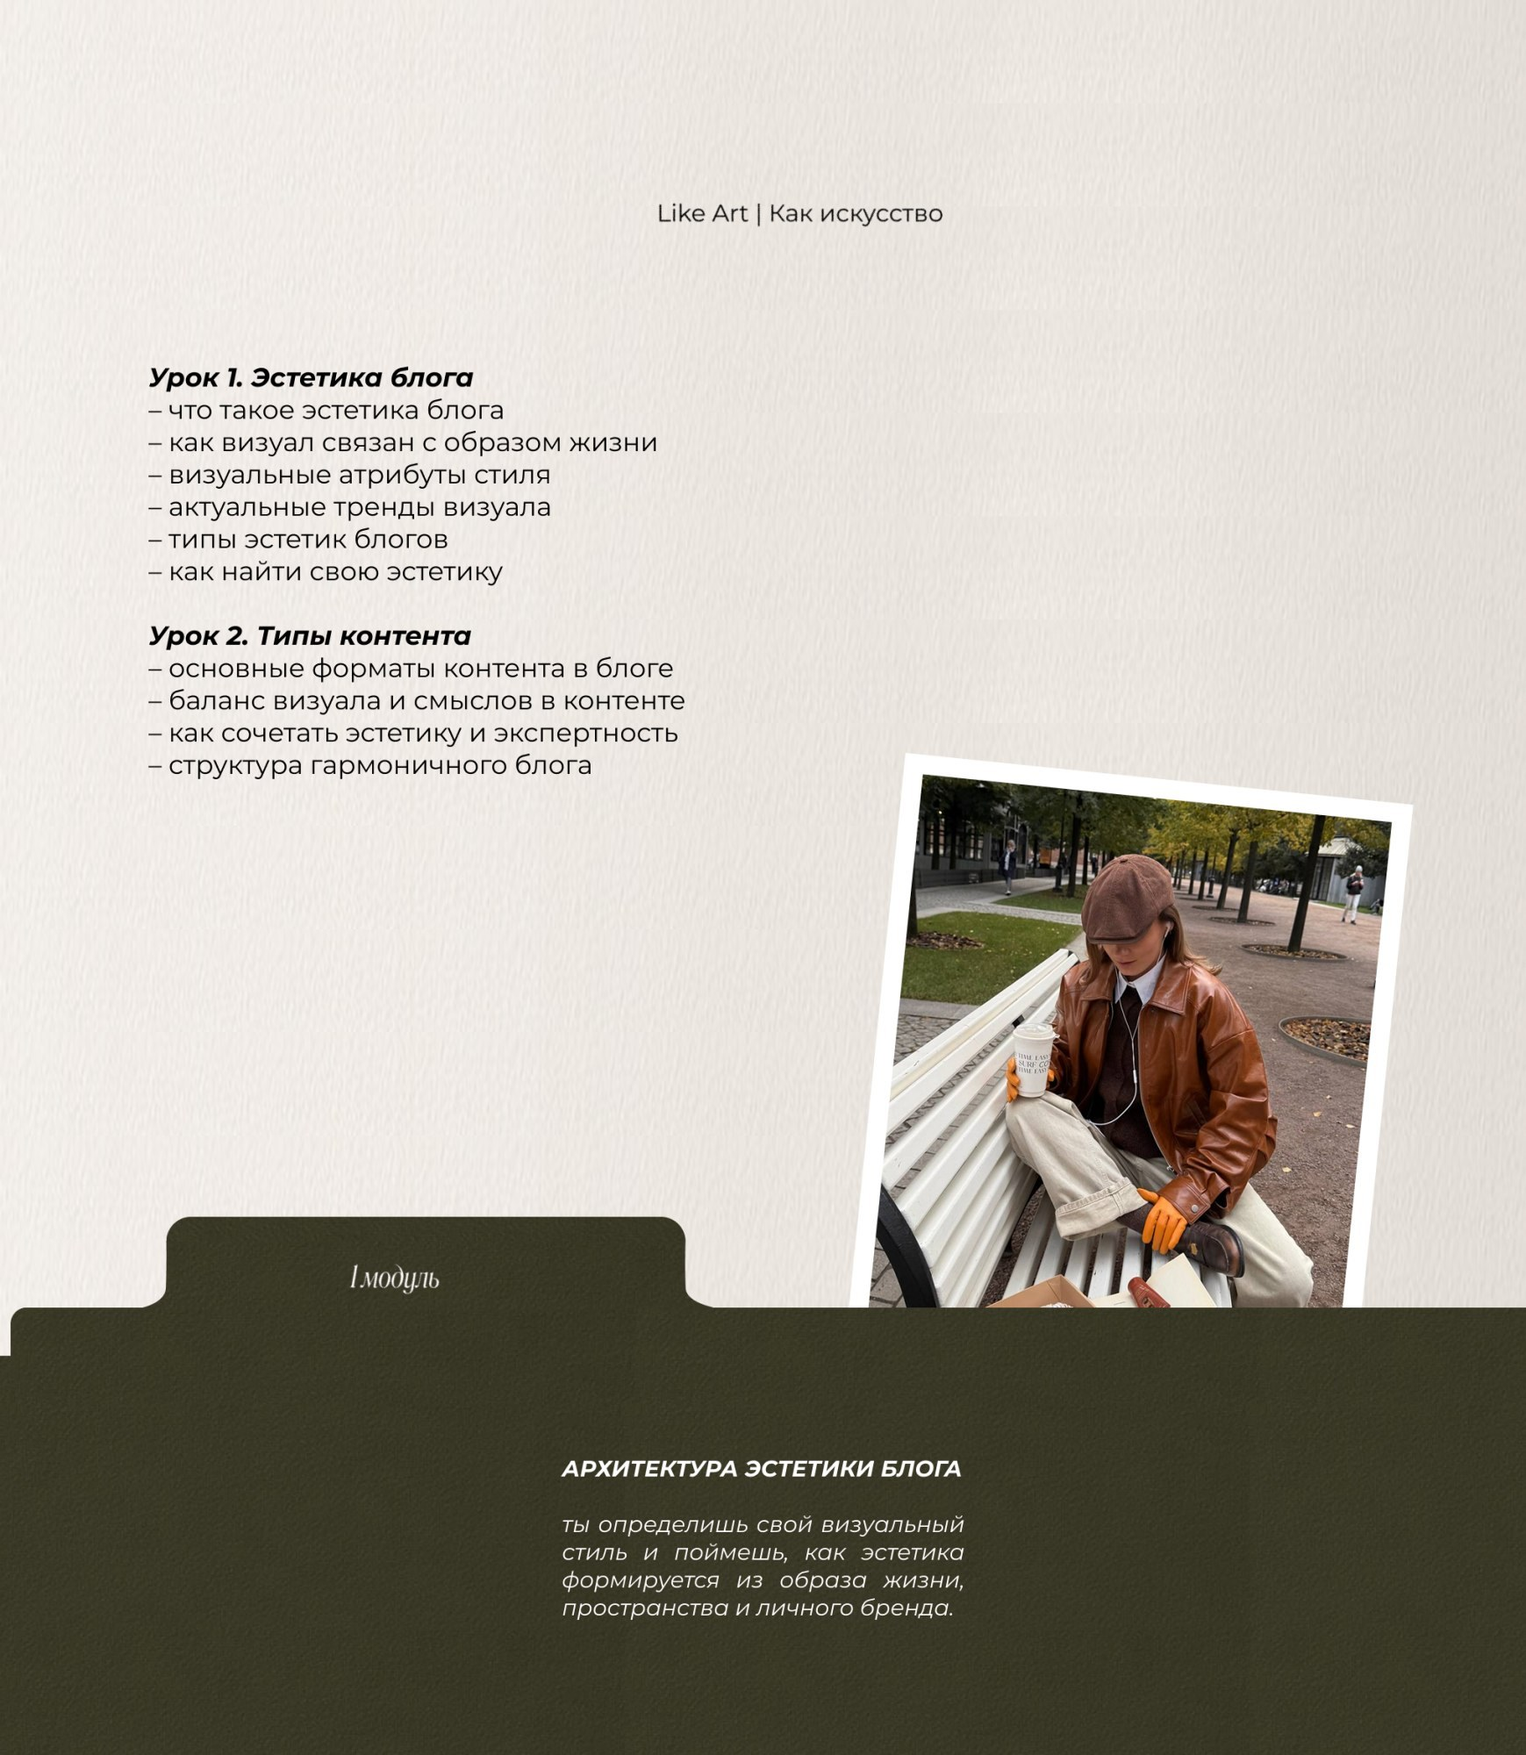
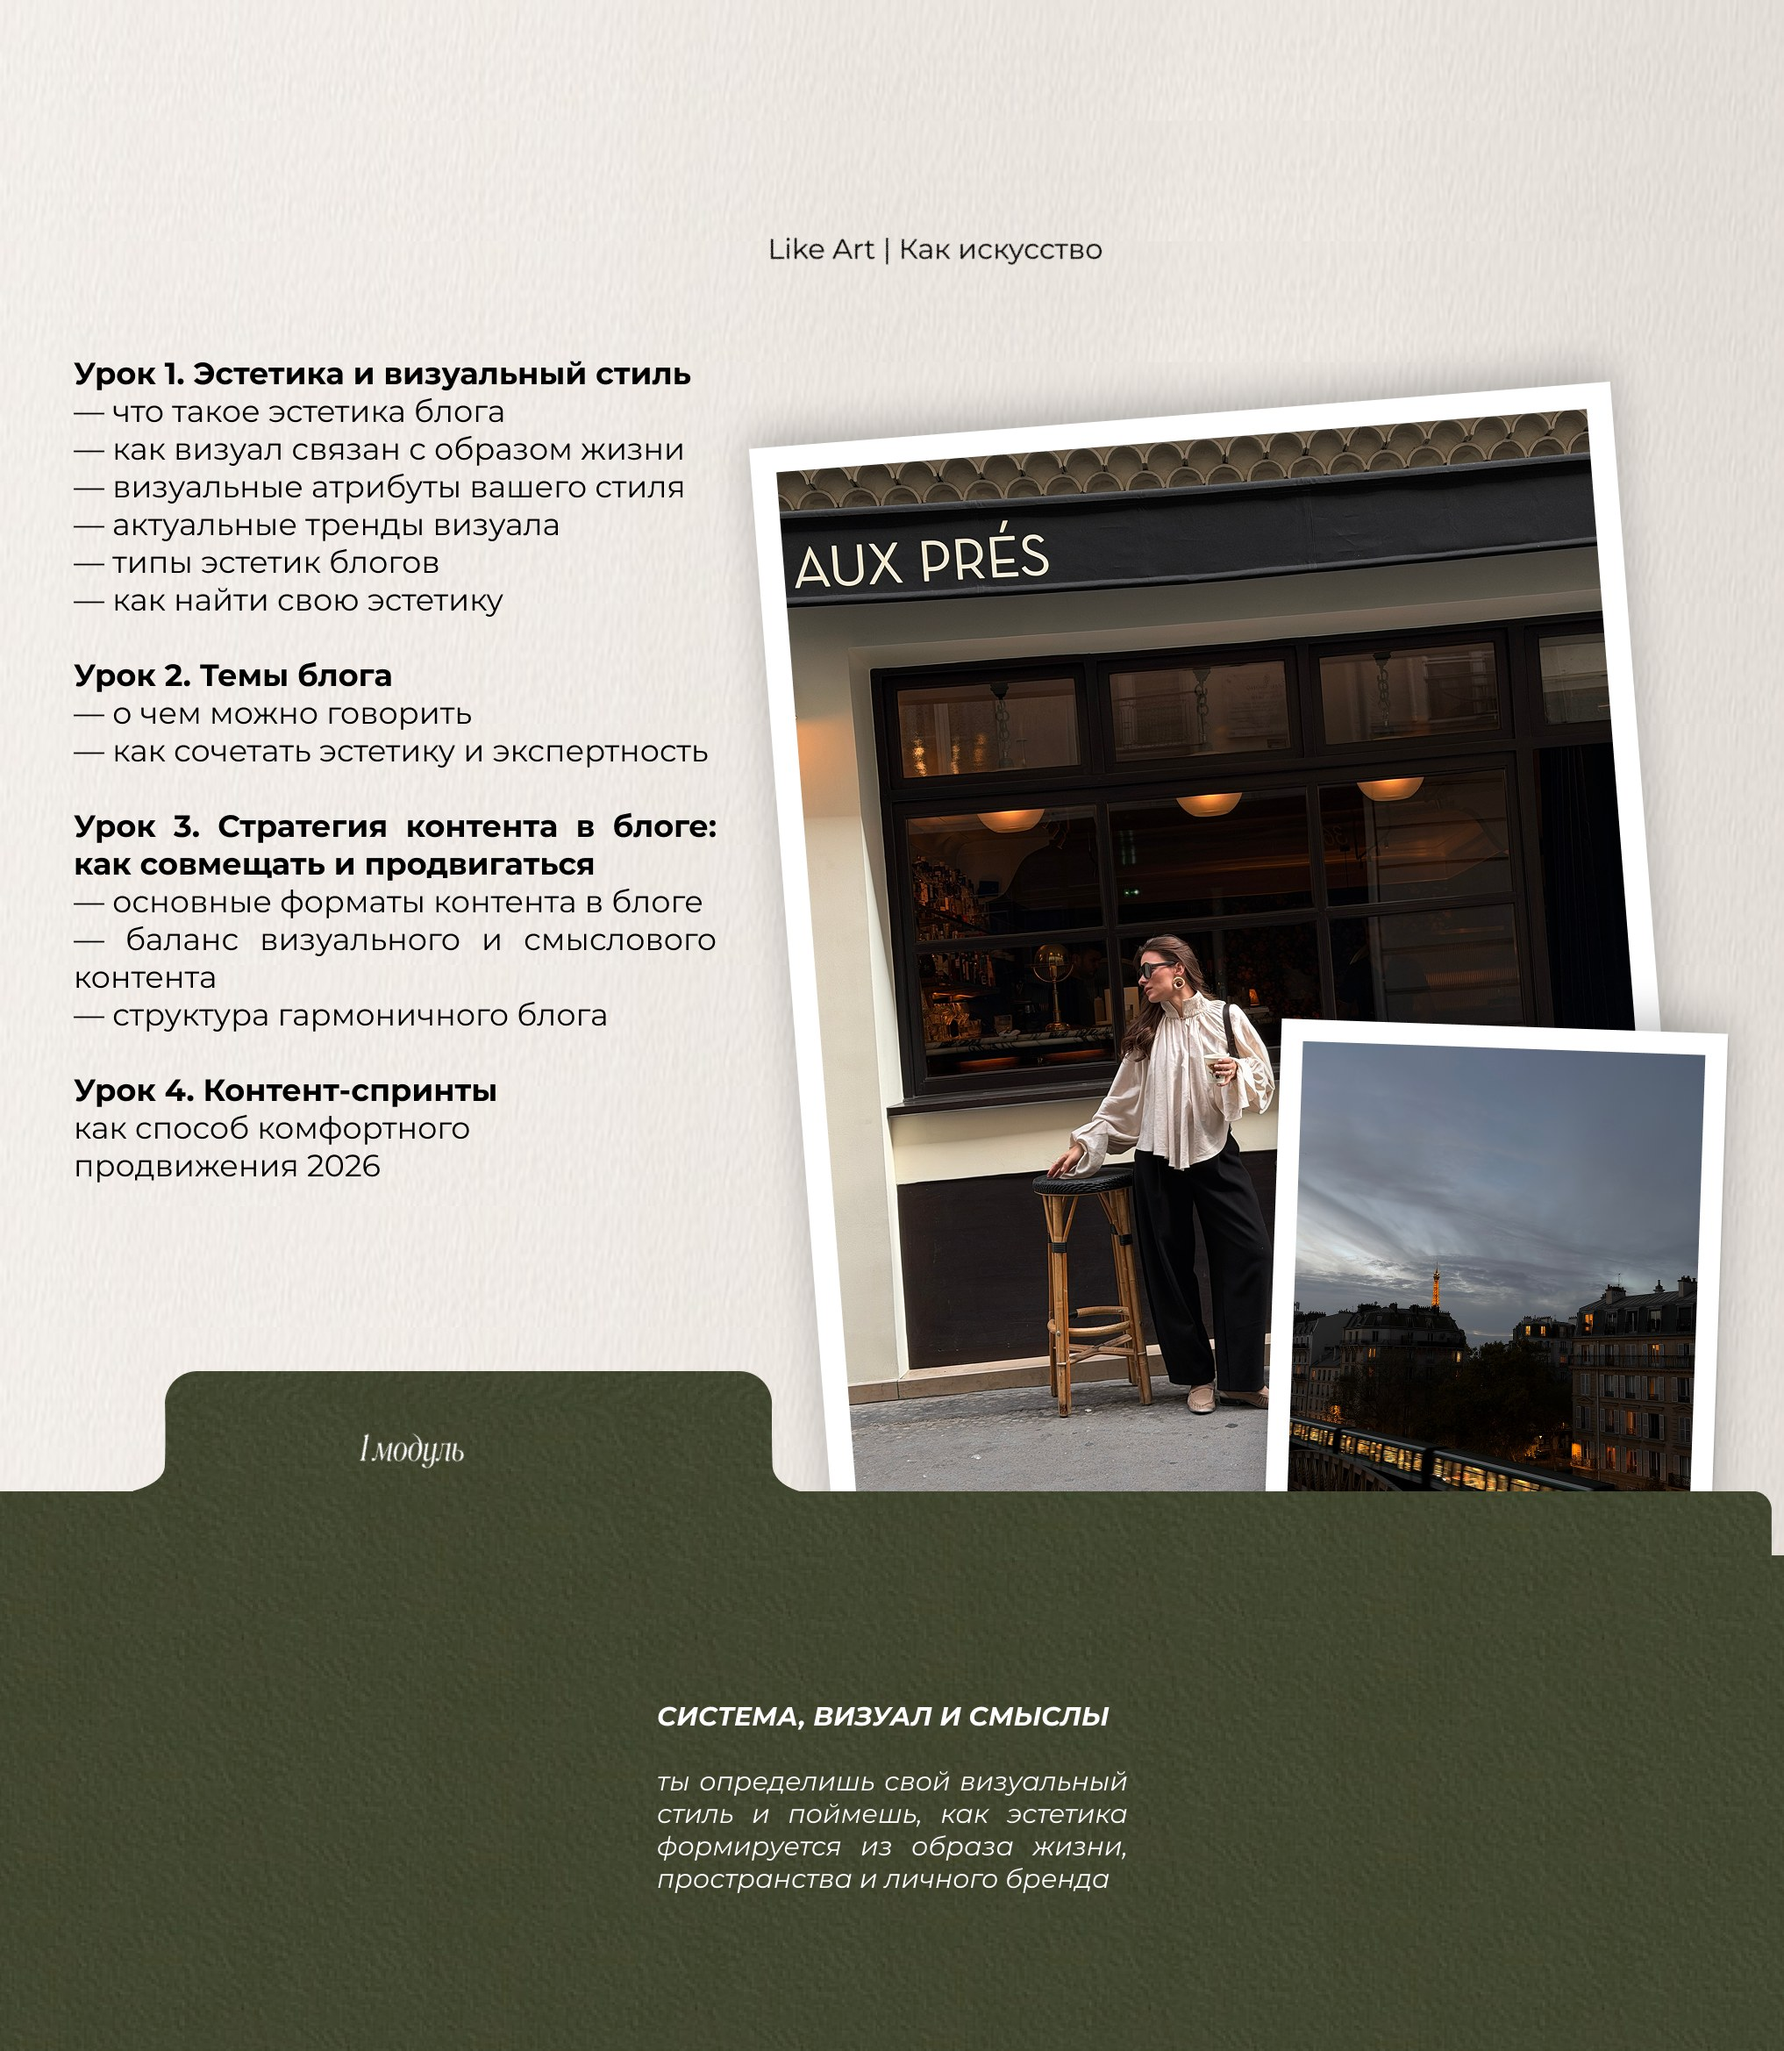
Update module 1 screen; escape & in HTML texts and validate it
Module 1: new image, lesson 1.1 renamed to «Сезонные эстетики и
тренды». A bare & breaks Telegram HTML parsing, so the scenario check
now rejects it; /reload error output is HTML-escaped.

Claude-Session: https://claude.ai/code/session_01PfES8Fx2SnoNjCsNu5nzja

diff --git a/course-bot/bot/handlers_admin.py b/course-bot/bot/handlers_admin.py
@@ -1,4 +1,5 @@
 import asyncio
+import html
 import csv
 import io
 import logging
@@ -123,9 +124,9 @@ def make_router(admin_ids: set[int]) -> Router:
         try:
             sc.load()
         except ScenarioError as e:
-            return await msg.answer(f"❌ Ошибки в сценарии, оставил старую версию:\n<pre>{e}</pre>")
+            return await msg.answer(f"❌ Ошибки в сценарии, оставил старую версию:\n<pre>{html.escape(str(e))}</pre>")
         except Exception as e:  # yaml syntax etc.
-            return await msg.answer(f"❌ Не удалось прочитать файл:\n<pre>{e}</pre>")
+            return await msg.answer(f"❌ Не удалось прочитать файл:\n<pre>{html.escape(str(e))}</pre>")
         from .handlers_user import set_commands
         await set_commands(bot, sc, cfg.admin_ids)
         await msg.answer(f"✅ Сценарий перечитан: {len(sc.screens)} экранов, {len(sc.tariffs)} тарифов.")

diff --git a/course-bot/bot/scenario.py b/course-bot/bot/scenario.py
@@ -96,7 +96,10 @@ class Scenario:
             if (c or {}).get("screen") not in self.screens:
                 errors.append(f"commands.{cmd}: экран «{(c or {}).get('screen')}» не найден")
         for name, s in self.screens.items():
-            plain = re.sub(r"<[^>]+>", "", s.get("text") or "").strip()
+            raw = s.get("text") or ""
+            if re.search(r"&(?!(amp|lt|gt|quot|#\d+);)", raw):
+                errors.append(f"screens.{name}: символ & нужно писать как &amp;")
+            plain = re.sub(r"<[^>]+>", "", raw).strip()
             limit = CAPTION_LIMIT if s.get("photo") else TEXT_LIMIT
             if len(plain) > limit:
                 errors.append(f"screens.{name}: текст {len(plain)} символов, лимит {limit}"
